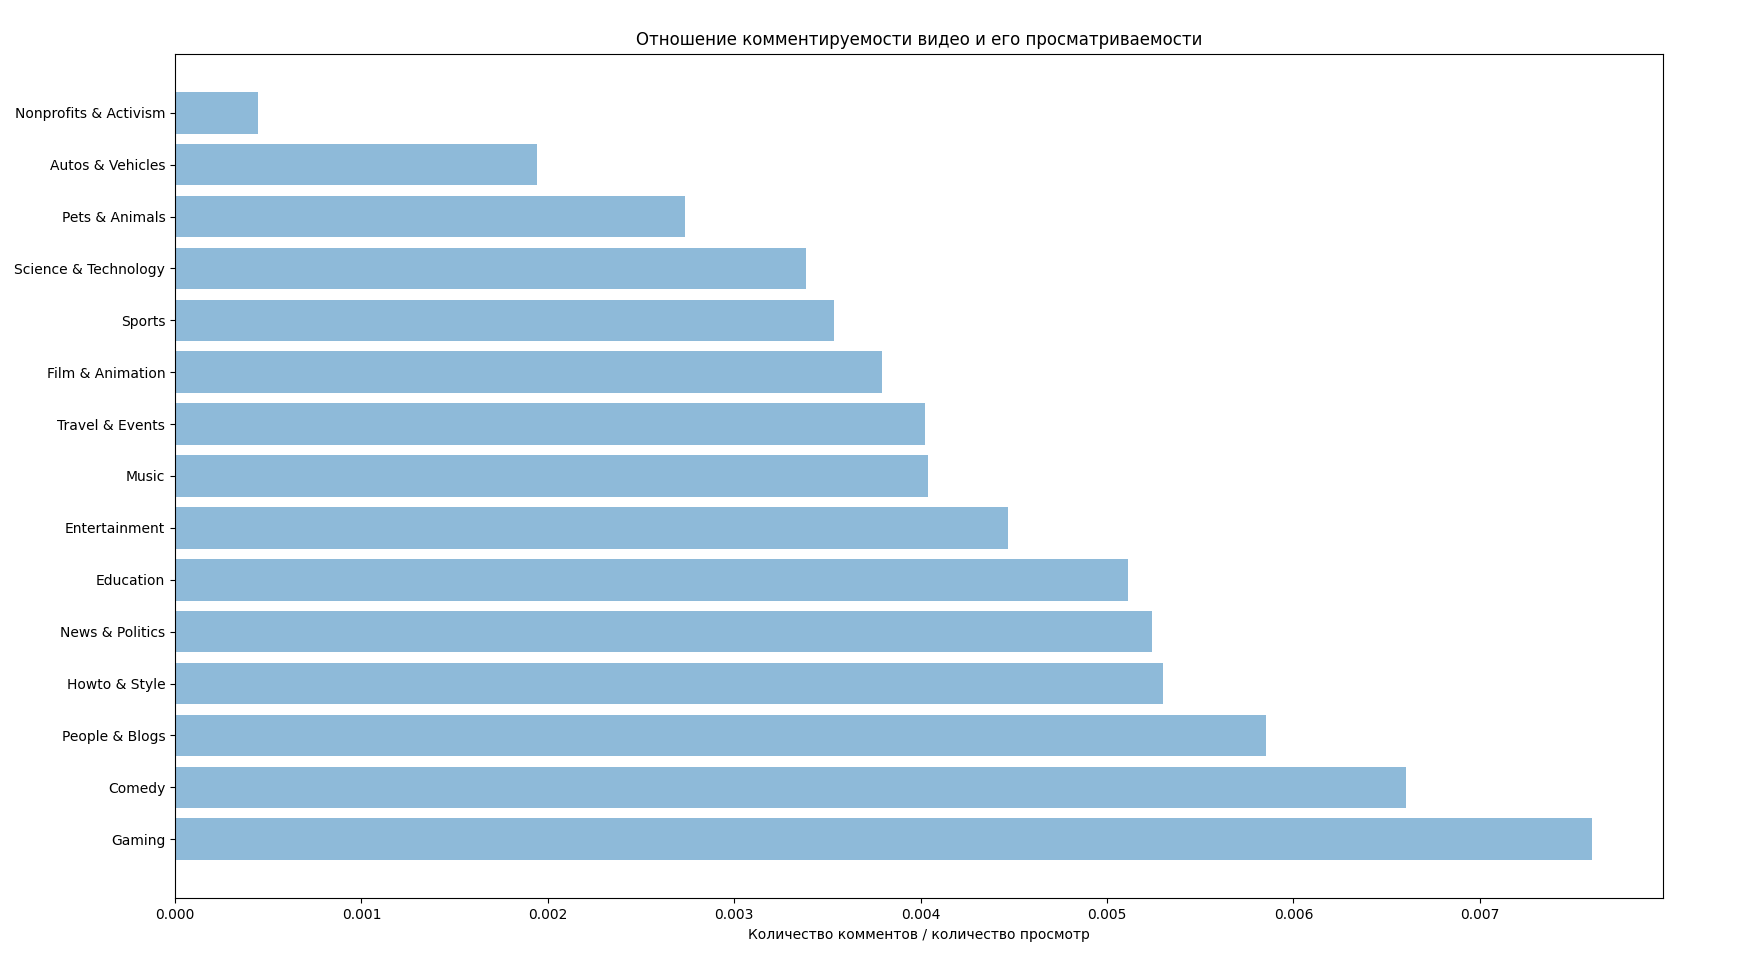
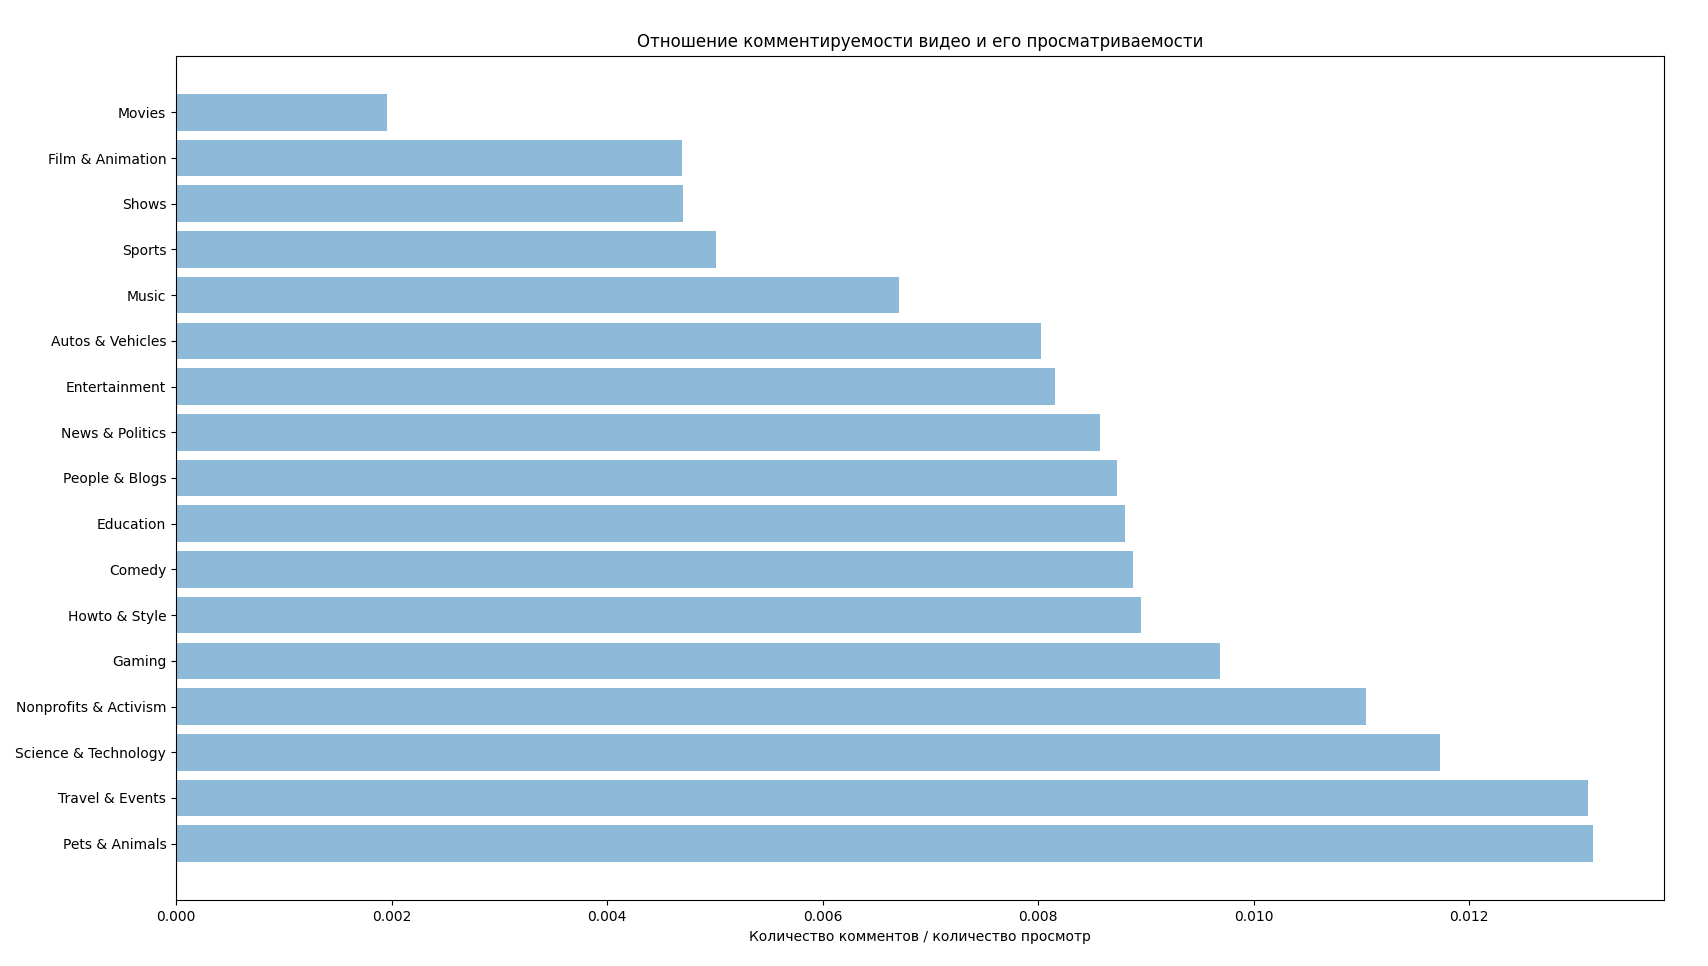
Fix visualize scripts, add new images

diff --git a/visualize/main.py b/visualize/main.py
@@ -1,0 +1,168 @@
+import datetime
+
+from collections import namedtuple
+from pymongo import MongoClient
+
+from visualize.pie_chart import plot_pie_chart
+from visualize.horiz_bar_chart import plot_horiz_bar_chart
+from visualize.long_live_params_chart import plot_long_live_params_chart
+from visualize.vert_bar_chart import plot_vert_bar_chart
+from visualize.top_channels_chart import plot_top_channels_chart
+from visualize.top_videos_chart import plot_top_videos_chart
+
+
+TopVideo = namedtuple("TopVideo",
+                      ["title", "publish_time", "trending_date", "views", "likes", "dislikes", "comment_count", "days_count"])
+
+
+if __name__ == "__main__":
+    mongo_client = MongoClient(host="localhost", port=27017)
+    youtube_db = mongo_client["youtube"]
+
+    # --- PIE CHART ---
+    # categories_daily = youtube_db["categories_daily"]
+    # all_categories_daily = list(categories_daily.find({}))
+    #
+    # labels_sizes = [(cat_daily["category_named"], round(cat_daily["mean_daily_rate"] * 100, 1)) for cat_daily in all_categories_daily]
+    # labels_sizes.sort(key=lambda cat_daily: cat_daily[1], reverse=True)
+    #
+    # labels = list()
+    # sizes = list()
+    # for cat_daily in labels_sizes:
+    #     labels.append(cat_daily[0])
+    #     sizes.append(cat_daily[1])
+    #
+    # explode = (0.05, 0.05, 0.05, 0.05, 0.05, 0.05, 0.05, 0.05, 0.05, 0.05, 0.05, 0.1, 0.15, 0.2, 0.25, 0.3, 0.35)
+    # plot_pie_chart(labels, sizes, explode)
+
+    # --- BAR CHART ---
+    categories_long_live = youtube_db["categories_long_live"]
+    all_categories_long_live = list(categories_long_live.find({}))
+
+    labels_params = [
+        (elem["category_named"], round(elem["mean"], 2), elem["max"])
+        for elem in all_categories_long_live]
+
+    labels_params.sort(key=lambda elem: elem[1], reverse=True)
+
+    labels_mean = list()
+    sizes_mean = list()
+    for cat_long_live in labels_params:
+        labels_mean.append(cat_long_live[0])
+        sizes_mean.append(cat_long_live[1])
+
+    plot_horiz_bar_chart(labels_mean, sizes_mean, "Среднее количество дней в тренде", 1.5)
+
+    labels_params.sort(key=lambda elem: elem[2], reverse=True)
+
+    labels_max = list()
+    sizes_max = list()
+    for cat_long_live in labels_params:
+        labels_max.append(cat_long_live[0])
+        sizes_max.append(cat_long_live[2])
+
+    plot_horiz_bar_chart(labels_max, sizes_max, "Максимальное количество дней в тренде", 5.5)
+
+    # categories_long_live = youtube_db["categories_long_live"]
+    # all_categories_long_live = list(categories_long_live.find({}))
+    #
+    # labels_params = [
+    #     (elem["category_named"], round(elem["mean"], 3), elem["75%"], elem["90%"], elem["max"])
+    #     for elem in all_categories_long_live]
+    # labels_params.sort(key=lambda elem: elem[1], reverse=True)
+    #
+    # labels_params = labels_params[:5]
+    #
+    # labels = list()
+    # params = list()
+    # for elem in labels_params:
+    #     labels.append(elem[0])
+    #     params.append((elem[1], elem[2], elem[3], elem[4]))
+    #
+    # plot_long_live_params_chart(labels, params)
+
+    # --- VERTICAL BAR CHARTS ---
+    # categories_view_rating = youtube_db["categories_view_rating"]
+    # all_categories_view_rating = list(categories_view_rating.find({}))
+    #
+    # for elem in all_categories_view_rating:
+    #     if elem["category_named"] == "People & Blogs":
+    #         all_categories_view_rating.remove(elem)
+    #         break
+    #
+    # labels_means = [
+    #     (elem["category_named"], elem["ratings_to_views_mean"], elem["likes_to_dislikes_mean"], elem["comments_to_views_mean"])
+    #     for elem in all_categories_view_rating
+    # ]
+    #
+    # labels_means.sort(key=lambda elem: elem[1], reverse=True)
+    # labels_ratings = list()
+    # all_ratings_to_views_mean = list()
+    # for elem in labels_means:
+    #     labels_ratings.append(elem[0])
+    #     all_ratings_to_views_mean.append(elem[1])
+    #
+    # labels_means.sort(key=lambda elem: elem[2], reverse=True)
+    # labels_likes = list()
+    # all_likes_to_dislikes_mean = list()
+    # for elem in labels_means:
+    #     labels_likes.append(elem[0])
+    #     all_likes_to_dislikes_mean.append(elem[2])
+    #
+    # labels_means.sort(key=lambda elem: elem[3], reverse=True)
+    # labels_comments = list()
+    # all_comments_to_views_mean = list()
+    # for elem in labels_means:
+    #     labels_comments.append(elem[0])
+    #     all_comments_to_views_mean.append(elem[3])
+
+    # plot_vert_bar_chart(labels_ratings, all_ratings_to_views_mean, "Отношение между оцениванием видео и его просмотров",
+    #                     "Количество оцениваний / количество просмотров")
+    # plot_vert_bar_chart(labels_likes, all_likes_to_dislikes_mean, "Отношение лайков к дизлайкам",
+    #                     "Количество лайков / количество дизлайков")
+    # plot_vert_bar_chart(labels_comments, all_comments_to_views_mean, "Отношение комментируемости видео и его просматриваемости",
+    #                     "Количество комментов / количество просмотр")
+
+    # --- TOP CHANNELS ---
+    # top_channels = youtube_db["top_channels"]
+    # all_top_channels = top_channels.find({})
+    #
+    # titles_sizes = [
+    #     (elem["channel_title"], elem["trend_days"], elem["trendable"])
+    #     for elem in all_top_channels
+    # ]
+    #
+    # titles_sizes.sort(key=lambda top_channel: top_channel[1], reverse=True)
+    #
+    # titles = list()
+    # params = list()
+    # for top_channel in titles_sizes:
+    #     titles.append(top_channel[0])
+    #     params.append((top_channel[1], top_channel[2]))
+
+    # plot_top_channels_chart(titles, params)
+
+    # --- REGRESSION ---
+    # top_videos = youtube_db["top_videos"]
+    # all_top_videos = top_videos.find({})
+    #
+    # def hack_date_str(date_str: str):
+    #     if date_str.endswith(".1"):
+    #         date_str += "1"
+    #     return date_str
+    #
+    # def from_json_to_top_video(top_video):
+    #     del top_video["_id"]
+    #     top_video["trending_date"] = datetime.datetime.strptime("20" + top_video["trending_date"], "%Y.%d.%m").date()
+    #     return TopVideo(**top_video)
+    #
+    # top_videos_structures = [from_json_to_top_video(top_video_json) for top_video_json in all_top_videos]
+    # top_videos_by_titles = dict()
+    # for top_video_struct in top_videos_structures:
+    #     if top_video_struct.title in top_videos_by_titles.keys():
+    #         top_videos_by_titles[top_video_struct.title].append(top_video_struct)
+    #     else:
+    #         top_videos_by_titles[top_video_struct.title] = [top_video_struct]
+    #
+    # plot_top_videos_chart(top_videos_by_titles["VERSUS #9 (сезон IV): Guf VS Птаха"])
+    # plot_top_videos_chart(top_videos_by_titles["[BadComedian] - Движение Вверх (Плагиат или великая правда?)"])

diff --git a/visualize/top_channels_chart.py b/visualize/top_channels_chart.py
@@ -1,0 +1,37 @@
+import numpy as np
+import matplotlib.pyplot as plt
+
+from matplotlib.ticker import MaxNLocator
+
+
+def plot_top_channels_chart(labels, params):
+    fig, ax = plt.subplots()
+
+    trendable_params = list()
+    trend_days_params = list()
+    for param in params:
+        trend_days_params.append(str(param[0]))
+        trendable_params.append(param[1])
+
+    pos = np.arange(len(labels))
+    rects = ax.barh(
+        pos,
+        trendable_params,
+        align="center",
+        height=0.5,
+        tick_label=labels)
+
+    ax.set_xlim([0, 1])
+    ax.xaxis.set_major_locator(MaxNLocator(10))
+    ax.xaxis.grid(True, linestyle="--", which="major", color="grey", alpha=.25)
+
+    ax.set_xlabel("На сколько популярен канал (отношение количества дней в тренде к общему количеству дней")
+
+    ax_right = ax.twinx()
+    ax_right.set_yticks(pos)
+    ax_right.set_ylim(ax.get_ylim())
+    ax_right.set_yticklabels(trend_days_params)
+    ax_right.set_ylabel('Количество дней в тренде')
+
+    plt.show()
+

diff --git a/visualize/horiz_bar_chart.py b/visualize/horiz_bar_chart.py
@@ -4,7 +4,7 @@ import matplotlib.pyplot as plt
 from matplotlib.ticker import MaxNLocator
 
 
-def plot_bar_chart(labels, sizes):
+def plot_horiz_bar_chart(labels, sizes, xlabel, xmaxlim):
     fig, ax = plt.subplots()
 
     rects = ax.barh(
@@ -16,11 +16,11 @@ def plot_bar_chart(labels, sizes):
         color=["red", "green", "blue", "forestgreen", "turquoise", "chocolate", "gold", "maroon", "navy",
                "orangered", "pink", "sienna", "violet", "yellowgreen", "indigo"])
 
-    ax.set_xlim([0, 5.5])
+    ax.set_xlim([0, xmaxlim])
     ax.xaxis.set_major_locator(MaxNLocator(24))
     ax.xaxis.grid(True, linestyle="--", which="major", color="grey", alpha=.25)
 
-    ax.set_xlabel("Среднее количество дней в тренде")
+    ax.set_xlabel(xlabel)
 
     plt.legend(rects, sizes)
 

diff --git a/visualize/pie_chart.py b/visualize/pie_chart.py
@@ -1,1 +1,22 @@
-import matplotlib
+import matplotlib.pyplot as plt
+
+
+def plot_pie_chart(labels, sizes, explode):
+    fig_pie, ax_pie = plt.subplots()
+
+    wp = {'linewidth': 1, 'edgecolor': "green"}
+    tp = {'color': 'black'}
+
+    wedges, texts, autotexts = ax_pie.pie(sizes,
+                                          shadow=True,
+                                          explode=explode,
+                                          autopct="%1.1f%%",
+                                          startangle=90,
+                                          wedgeprops=wp,
+                                          textprops=tp)
+
+    ax_pie.legend(wedges, labels, loc="best")
+    plt.setp(autotexts, size=8, weight="bold")
+    ax_pie.axis('equal')
+
+    plt.show()

diff --git a/visualize/long_live_params_chart.py b/visualize/long_live_params_chart.py
@@ -1,0 +1,25 @@
+import numpy as np
+import matplotlib.pyplot as plt
+
+
+def plot_long_live_params_chart(labels, params):
+    x_ticks = ["mean", "75%", "90%", "max"]
+    x_ticks_nums = np.arange(len(x_ticks))
+
+    colors = ["red", "blue", "green", "indigo", "gold"]
+
+    bars = []
+    for i in range(len(labels)):
+        bars.append(plt.bar(x_ticks_nums, params[i], 0.15)[0])
+
+    # for i in range(len(labels)):
+    #     plt.bar(x_ticks_nums[0], params[i][0], 'o', color=colors[i], label=labels[i])
+    #
+    # for i in range(len(labels)):
+    #     for j in range(1, 4):
+    #         plt.bar(x_ticks_nums[j], params[i][j], 5, color=colors[i])
+
+    plt.xticks(x_ticks_nums, x_ticks)
+    plt.legend(bars, labels)
+
+    plt.show()

diff --git a/visualize/top_videos_chart.py b/visualize/top_videos_chart.py
@@ -1,0 +1,19 @@
+import numpy as np
+import matplotlib.pyplot as plt
+
+from typing import List
+
+
+def plot_top_videos_chart(top_videos_by_title: List):
+    top_videos_by_title.sort(key=lambda top_video: top_video.trending_date)
+    x = [top_video.trending_date for top_video in top_videos_by_title]
+    y = [int(top_video.views) for top_video in top_videos_by_title]
+
+    x_num = np.arange(len(x))
+
+    plt.plot(x_num, y, '--k')
+    plt.xticks(x_num, x)
+    plt.ylabel("Количество просмотров")
+    plt.xlabel("Дата")
+    plt.title(f"Video '{top_videos_by_title[0].title}'")
+    plt.show()

diff --git a/visualize/vert_bar_chart.py b/visualize/vert_bar_chart.py
@@ -1,0 +1,11 @@
+import numpy as np
+import matplotlib.pyplot as plt
+
+
+def plot_vert_bar_chart(labels, sizes, title, xlabel):
+    y_pos = np.arange(len(labels))
+    plt.barh(y_pos, sizes, align="center", alpha=.5)
+    plt.yticks(y_pos, labels)
+    plt.xlabel(xlabel)
+    plt.title(title)
+    plt.show()
